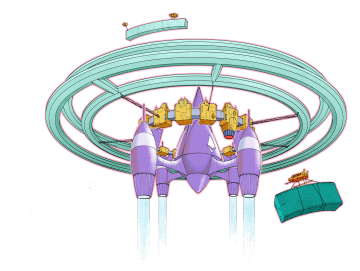
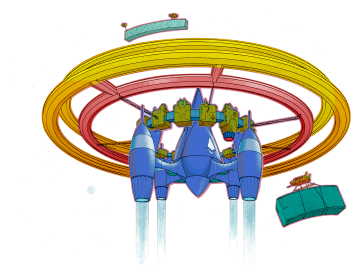
ethColombia homepage

diff --git a/vue-app/src/views/Landing.vue b/vue-app/src/views/Landing.vue
@@ -9,9 +9,17 @@
         </div>
         <div>
           <div class="hero-content">
-            <h1>Send your favorite projects to the moon!</h1>
+            <h1>QUADRATIC FUNDING @DEVCON!</h1>
             <div id="subtitle" class="subtitle">
-              Every project you contribute to gets a portion of extra funding.
+              QF @ Devcon for the LatAm Community! Brought to you by:
+            </div>
+
+            <div class="organizers-wrapper">
+              <image-responsive
+                title="organizers"
+                class="organizers"
+                alt="organizers of QF round."
+              />
             </div>
             <div class="btn-group">
               <links to="/projects" class="btn-action">Get started</links>
@@ -354,7 +362,7 @@ ol li::before {
 
   .image-wrapper img {
     position: absolute;
-    mix-blend-mode: exclusion;
+    padding-top: 2rem;
     width: 70%;
     max-width: 880px;
     height: auto;
@@ -369,8 +377,9 @@ ol li::before {
   }
 
   .hero-content {
+    padding: 2rem;
     position: relative;
-    max-width: 40%;
+    max-width: 60ch;
     min-height: 400px;
     display: flex;
     flex-direction: column;
@@ -378,7 +387,7 @@ ol li::before {
     @media (max-width: $breakpoint-m) {
       max-width: 880px;
       margin: -2rem;
-      padding: 2rem;
+      padding: 4rem;
       @include gradientBackground(
         182.34deg,
         rgba(var(--shadow-dark-rgb), 0.4),
@@ -387,13 +396,29 @@ ol li::before {
         89.75%
       );
     }
+
+    .organizers-wrapper {
+      padding-top: 2rem;
+      padding-bottom: 4rem;
+      grid-area: image;
+      position: relative;
+      display: flex;
+      max-width: 85%;
+
+      align-items: left;
+      .organizers {
+        position: relative;
+        margin: 0;
+        max-width: 100%;
+      }
+    }
   }
 
   #moon {
+    mix-blend-mode: color-dodge;
     position: absolute;
     top: 0;
     right: 0;
-    mix-blend-mode: exclusion;
   }
 
   .btn-group {
@@ -496,6 +521,7 @@ ol li::before {
 #subtitle {
   font-size: 20px;
   margin-bottom: 1.5rem;
+  max-width: 35ch;
 }
 
 #section-how-it-works {
@@ -517,7 +543,6 @@ ol li::before {
       width: 100%;
       height: auto;
       aspect-ratio: 16/9;
-      mix-blend-mode: exclusion;
     }
   }
   #how-it-works-content {

diff --git a/vue-app/src/styles/_vars-dark.scss b/vue-app/src/styles/_vars-dark.scss
@@ -6,17 +6,9 @@
   // workaround for using css variables with sass mixins
   --text-color-rgb: 255, 255, 255;
 
-  --brand-primary: linear-gradient(
-    109.01deg,
-    rgb(151, 137, 196) 6.45%,
-    rgb(199, 42, 185) 99.55%
-  );
-  --brand-secondary: #16c8b5;
-  --brand-tertiary: linear-gradient(
-    315deg,
-    rgba(199, 42, 185, 0.6) 0%,
-    rgba(37, 43, 121, 0.6) 100%
-  );
+  --brand-primary: #5d69ff;
+  --brand-secondary: #5d69ff;
+  --brand-tertiary: #edbc00;
 
   --error-color: #bd6b5e;
   --warning-color: rgb(253, 254, 106);
@@ -26,9 +18,9 @@
   --link-color: #9789c4;
   --loader-color: #fff;
 
-  --border-color: #2b364b;
+  --border-color: #191623;
   --border-strong: #000000;
-  --border-highlight: #7375a6;
+  --border-highlight: #5d69ff;
 
   --shadow-light-rgb: 196, 196, 196;
   --shadow-dark-rgb: 0, 0, 0;
@@ -37,8 +29,8 @@
   --img-filter: none;
 
   --bg-primary-color: #191623;
-  --bg-secondary-color: #211e2b;
-  --bg-light-color: #2c2938;
+  --bg-secondary-color: #191623;
+  --bg-light-color: #5d69ff;
 
   // alternative background colors for light and dark modes
   --bg-secondary-highlight: #211e2b;
@@ -47,7 +39,7 @@
   --bg-light-accent: #2c2938;
 
   --bg-transparent: rgba(25, 22, 35, 0.902);
-  --bg-gradient: linear-gradient(315deg, #c72ab9 0%, #252a77 100%);
+  --bg-gradient: #050022;
   --bg-gradient-hero: linear-gradient(
     286.78deg,
     rgba(173, 131, 218, 0) -32.78%,
@@ -72,14 +64,10 @@
   );
   --bg-circle: #2a2736;
 
-  --button-secondary-color: #16c8b5;
+  --button-secondary-color: #5d69ff;
   --button-secondary-bg: none;
-  --button-secondary-border: #16c8b5;
-  --button-action: linear-gradient(
-    109.01deg,
-    rgb(151, 137, 196) 6.45%,
-    rgb(199, 42, 185) 99.55%
-  );
+  --button-secondary-border: #5d69ff;
+  --button-action: #5d69ff;
 
   --explorer-border: var(--text-color);
   --explorer-hover: var(--bg-light-color);

diff --git a/vue-app/src/components/NavBar.vue b/vue-app/src/components/NavBar.vue
@@ -4,17 +4,17 @@
       <img
         class="clr-logo"
         :alt="$store.getters.operator"
-        src="@/assets/clr.svg"
+        src="@/assets/ethColombia.svg"
       />
     </links>
     <div class="btn-row">
-      <div>
+      <!-- <div>
         <img
           @click="toggleTheme()"
           class="navbar-btn"
           :src="require(`@/assets/${themeIcon}`)"
         />
-      </div>
+      </div> -->
       <div class="help-dropdown" v-click-outside="closeHelpDropdown">
         <img
           @click="toggleHelpDropdown()"
@@ -157,13 +157,13 @@ export default class NavBar extends Vue {
     margin-left: 0.5rem;
 
     .button-menu {
+      padding: 0.5rem 0.5rem;
       display: flex;
       flex-direction: column;
       position: absolute;
       top: 2rem;
-      right: 0.5rem;
+      right: 4px;
       background: var(--bg-secondary-color);
-      border: 1px solid rgba($border-light, 0.3);
       border-radius: 0.5rem;
       min-width: 160px;
       box-shadow: 0px 8px 16px 0px rgba(0, 0, 0, 0.2);
@@ -183,7 +183,7 @@ export default class NavBar extends Vue {
       .dropdown-item a {
         display: flex;
         align-items: center;
-        padding: 0.5rem;
+        padding: 0.5rem 0.75rem;
         gap: 0.5rem;
         width: 176px;
         &:after {
@@ -207,7 +207,7 @@ export default class NavBar extends Vue {
 
   .clr-logo {
     margin: 0;
-    height: 2.25rem;
+    height: 3.25rem;
     vertical-align: middle;
   }
 

diff --git a/vue-app/src/styles/_vars-light.scss b/vue-app/src/styles/_vars-light.scss
@@ -7,8 +7,8 @@
   --text-color-rgb: 33, 37, 41;
 
   --brand-primary: #6f3ff5;
-  --brand-secondary: #00e3a1;
-  --brand-tertiary: #f3d2f9;
+  --brand-secondary: #6f3ff5;
+  --brand-tertiary: #6f3ff5;
 
   --error-color: #bd6b5e;
   --warning-color: var(--text-color);
@@ -27,7 +27,7 @@
 
   --bg-primary-color: #fff;
   --bg-secondary-color: #fff;
-  --bg-light-color: #fff;
+  --bg-light-color: #8990f2;
 
   // alternative mapping for secondary and light background
   --bg-secondary-highlight: #f5f2ff;
@@ -46,7 +46,7 @@
   --button-secondary-color: #212529;
   --button-secondary-bg: #d2fff6;
   --button-secondary-border: none;
-  --button-action: #00e3a1;
+  --button-action: #6f3ff5;
 
   --explorer-border: var(--border-color);
   --explorer-hover: none;

diff --git a/vue-app/src/styles/_theme.scss b/vue-app/src/styles/_theme.scss
@@ -34,7 +34,7 @@
 }
 
 #banner {
-  @include banner(var(--text-color), var(--bg-primary-color));
+  @include banner(var(--text-color), #edbc00);
 }
 
 .explorer-btn {
@@ -54,17 +54,18 @@
 
 .navbar-btn,
 .dropdown-btn {
-  @include button(white, #2c2938, 1px solid rgba(115, 117, 166, 0.3));
-  padding: 0.25rem 0.5rem;
-  border-radius: 8px;
-  margin-right: 0.5rem;
+  @include button(white, #191623, 1px solid rgba(255, 255, 255, 0.3));
+  padding: 0.5rem 0.5rem;
+  border-radius: 4px;
+  margin-right: 0.25rem;
   display: flex;
 }
 
 #nav-bar {
   .app-btn {
-    padding: 0.25rem 1.25rem;
-    border-radius: 1rem;
+    margin-left: 0.25rem;
+    padding: 0.5rem 2.25rem;
+    border-radius: 4px;
   }
 }
 

diff --git a/vue-app/src/views/TransactionSuccess.vue b/vue-app/src/views/TransactionSuccess.vue
@@ -115,7 +115,6 @@ export default class TransactionSuccess extends Vue {
 
 .image-wrapper .docking {
   height: 95%;
-  mix-blend-mode: exclusion;
   transform: rotate(15deg);
   @media (max-width: $breakpoint-m) {
     transform: translateX(-6em) translateY(3em) rotate(15deg);
@@ -125,7 +124,6 @@ export default class TransactionSuccess extends Vue {
 .image-wrapper .money {
   position: fixed;
   width: 100%;
-  mix-blend-mode: exclusion;
 }
 
 .dropshadow {

diff --git a/vue-app/src/views/VerifyLanding.vue b/vue-app/src/views/VerifyLanding.vue
@@ -211,7 +211,6 @@ ul {
     position: absolute;
     top: 1rem;
     right: 1rem;
-    mix-blend-mode: exclusion;
   }
   .hero {
     display: flex;
@@ -230,7 +229,6 @@ ul {
       position: absolute;
       bottom: 0;
       right: 0;
-      mix-blend-mode: exclusion;
       width: 66%;
       @media (max-width: $breakpoint-m) {
         right: 0;

diff --git a/vue-app/src/views/ProjectAdded.vue b/vue-app/src/views/ProjectAdded.vue
@@ -128,7 +128,6 @@ ul {
     position: absolute;
     top: 1rem;
     right: 1rem;
-    mix-blend-mode: exclusion;
   }
   .hero {
     bottom: 0;
@@ -144,7 +143,6 @@ ul {
       position: absolute;
       bottom: 0;
       right: 0;
-      mix-blend-mode: exclusion;
       width: 66%;
       @media (max-width: $breakpoint-m) {
         right: 0;

diff --git a/vue-app/src/views/BrightIdSponsored.vue b/vue-app/src/views/BrightIdSponsored.vue
@@ -98,7 +98,6 @@ ul {
     position: absolute;
     top: 1rem;
     right: 1rem;
-    mix-blend-mode: exclusion;
   }
   .hero {
     bottom: 0;
@@ -114,7 +113,6 @@ ul {
       position: absolute;
       bottom: 0;
       right: 0;
-      mix-blend-mode: exclusion;
       width: 66%;
       @media (max-width: $breakpoint-m) {
         right: 0;

diff --git a/vue-app/src/views/Verified.vue b/vue-app/src/views/Verified.vue
@@ -98,7 +98,6 @@ ul {
     position: absolute;
     top: 1rem;
     right: 1rem;
-    mix-blend-mode: exclusion;
   }
   .hero {
     bottom: 0;
@@ -114,7 +113,6 @@ ul {
       position: absolute;
       bottom: 0;
       right: 0;
-      mix-blend-mode: exclusion;
       width: 66%;
       @media (max-width: $breakpoint-m) {
         right: 0;

diff --git a/vue-app/src/styles/_vars.scss b/vue-app/src/styles/_vars.scss
@@ -3,10 +3,10 @@
 
 $clr-green: #16c8b5; //rgb(22, 200, 181)
 $clr-pink: #c72ab9;
-$clr-black: #211e2b;
+$clr-black: #ffffff;
 $idle-color: #191623;
-$button-color: #7375a6;
-$border-light: #7375a6;
+$button-color: #5d69ff;
+$border-light: #5d69ff;
 $icon-hover: #2c2938;
 $highlight-color: #9789c4;
 $button-disabled-color: #56567a;

diff --git a/vue-app/src/components/ImageResponsive.vue b/vue-app/src/components/ImageResponsive.vue
@@ -1,5 +1,5 @@
 <template>
-  <img sizes="(max-width: 1440px) 100vw, 1440px" :src="src" :srcset="srcset" />
+  <img sizes="(max-width: 2880px) 100vw, 2880px" :src="src" :srcset="srcset" />
 </template>
 
 <script lang="ts">
